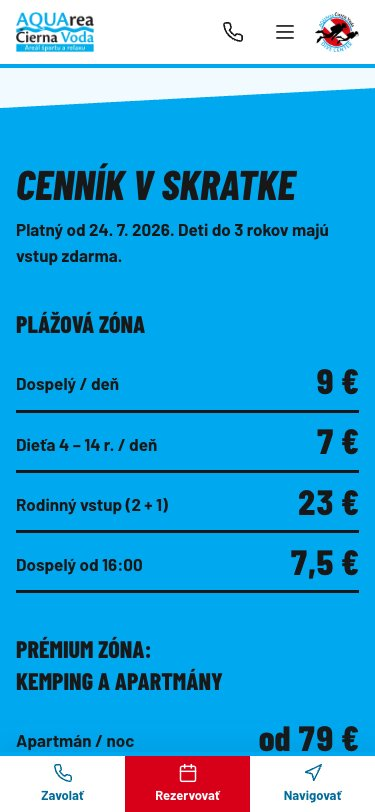
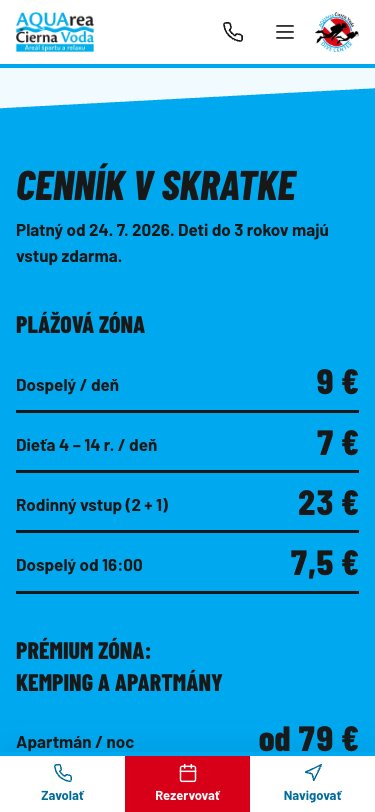
V8/V11/V12: hero photo ends in a straight edge (no angled band or phone panel cutting into it)

diff --git a/src/styles/v7-heroes.css b/src/styles/v7-heroes.css
@@ -20,6 +20,11 @@
     .v8-photo { width: 58%; }
     .v8-hero { grid-template-columns: 46% 54%; }
   }
+  /* the photo ends in a straight edge (owner 2026-10-31): the first band no longer rides up over it with an angled top,
+     and on phones the text panel starts flat under the photo instead of cutting into it. The desktop panel keeps its angled left edge. */
+  .v8-hero + .v7-band { margin-top: 0; clip-path: none; padding-block-start: 3.5rem; }
+  @media (min-width: 768px) { .v8-hero + .v7-band { padding-block-start: 5rem; } }
+  @media (max-width: 1023px) { .v8-hero .v7-panel { clip-path: none; margin-top: 0; padding-top: 1.1rem; } }
   @media (prefers-reduced-motion: reduce) {
     .v7-stage:not([data-live]) .v8-photo img, .v7-stage[data-optin][data-paused] .v8-photo img { animation: none !important; }
     .v7-stage[data-optin]:not([data-paused]) .v8-photo img { animation-duration: 46s !important; animation-iteration-count: infinite !important; }

diff --git a/src/styles/v12.css b/src/styles/v12.css
@@ -37,8 +37,9 @@
   .v12 .v7-band, .v12 .v7-band.v7-flip { clip-path: none; border-radius: var(--cut) var(--cut) 0 0; padding-block: calc(var(--cut) + 3rem) 4rem; }
   @media (min-width: 768px) { .v12 .v7-band, .v12 .v7-band.v7-flip { padding-block: calc(var(--cut) + 4.5rem) 6rem; } }
 
-  /* the next rounded sheet overlaps the hero by --cut: keep the services strip above it */
-  @media (min-width: 1024px) { .v12 .v7-stage .svc-strip { bottom: calc(var(--cut) + .75rem); } }
+  /* the photo ends in a straight edge: the first sheet doesn't ride up over it */
+  .v12 .v8-hero + .v7-band { margin-top: 0; border-radius: 0; padding-block-start: 3rem; }
+  @media (min-width: 768px) { .v12 .v8-hero + .v7-band { padding-block-start: 4.5rem; } }
 
   /* hero panel */
   .v12 .v7-panel { clip-path: none; border-radius: var(--v12-r) var(--v12-r) 0 0; margin-top: -1.5rem; padding-top: 2rem; }

diff --git a/DECISIONS.md b/DECISIONS.md
@@ -411,3 +411,4 @@ Coordinates are in % of the real photo (pushed through the known offset into the
 - **Scope reading:** "all designs" taken as the four live candidates V8, V10, V11, V12. V1–V7 and V9 untouched.
 - **AI image (rule 5, sixth exception, committed first):** V11 and V12 are regenerated from V8's markup and use the AI-extended placeholder again (desktop) with the TODO chip in the source; V8 and V10 keep the images they had. No new Gemini image.
 - **Verified:** build OK; axe 0 at 375 and 1440 on V8, V10, V11, V12; no horizontal overflow and no page errors at 320 / 375 / 768 / 1024 / 1440. Screenshots in `screenshots/phase9/`.
+- **2026-10-31 · owner: "the image seems to be cut off diagonally. Fix it" (V8, V11, V12):** the first band below the hero used to ride up over the photo with an angled top (V7 layout) and, on phones, the angled text panel cut into the photo's bottom. Both removed: the photo now ends in a straight edge (`.v8-hero + .v7-band`, phone panel flat). The desktop panel's angled left edge is kept (the V8 signature); say so if that should be straight too. V10 untouched (its photo is full-bleed).
